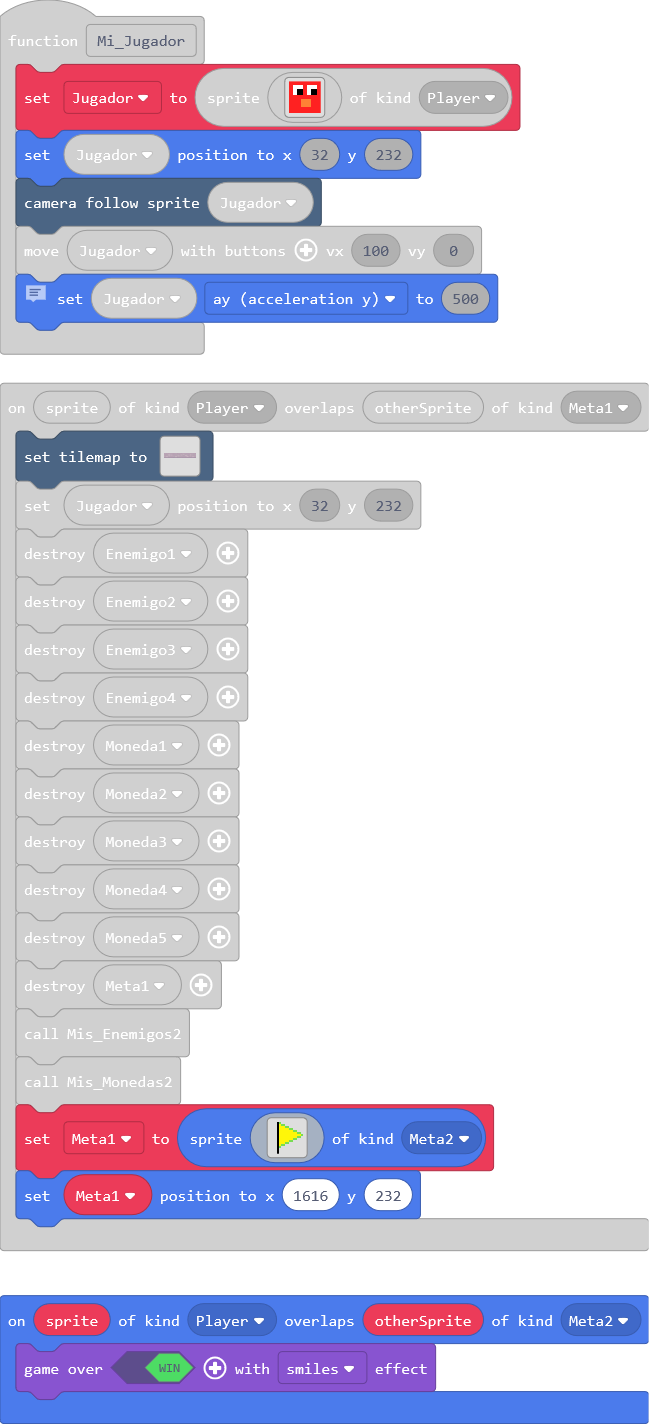
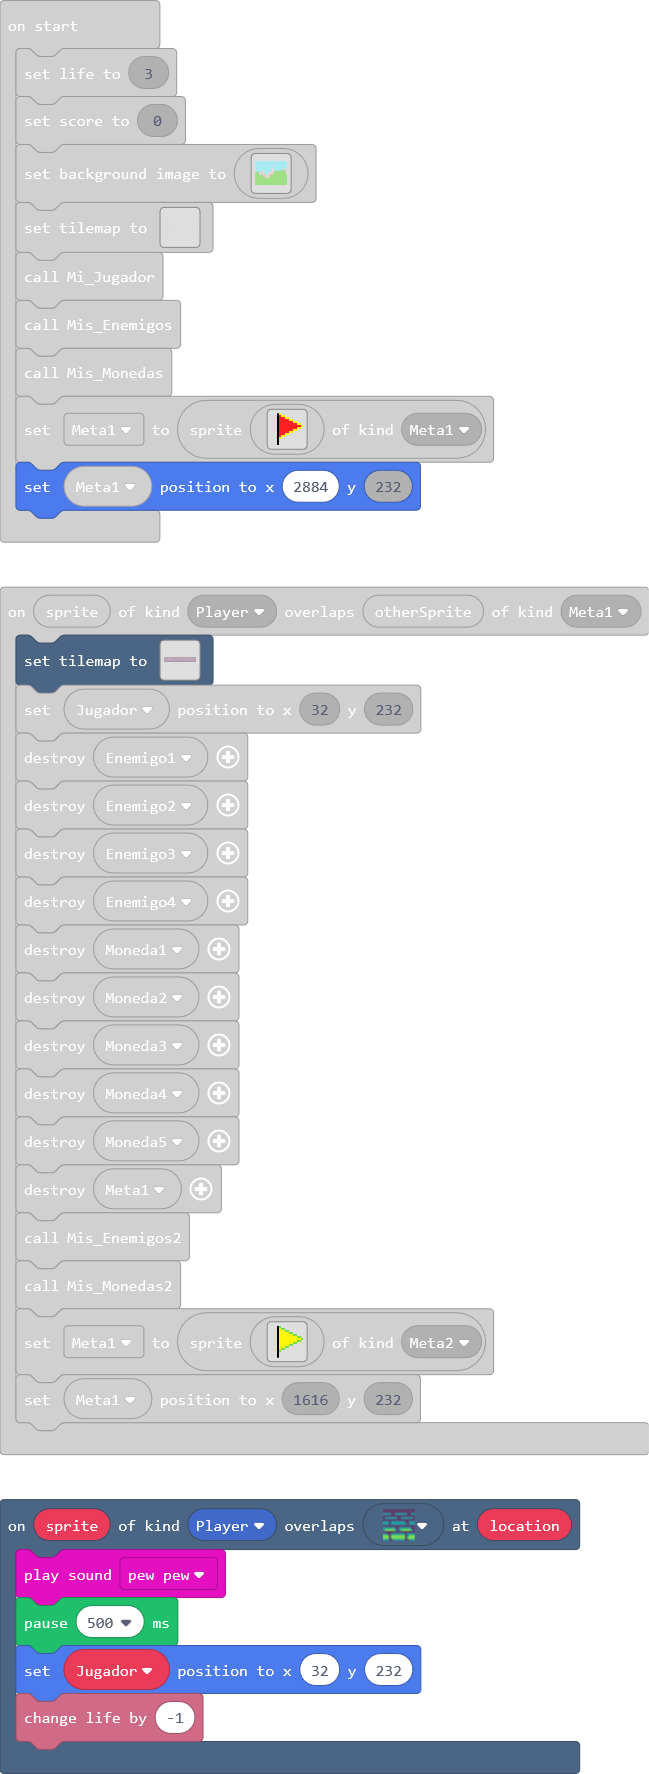
Update main.blocks, main.ts

diff --git a/main.ts b/main.ts
@@ -339,7 +339,7 @@ function Mi_Jugador () {
 }
 sprites.onOverlap(SpriteKind.Player, SpriteKind.Meta1, function (sprite, otherSprite) {
     tiles.setTilemap(tiles.createTilemap(
-            hex`6700100001010101010103010101010101010101010101010101010101010101010101010101010101010101010101010101010101010101010101010101010101010101010101010101010101010101010101010101010101010101030301010101010101010101010101010301010101010101010101010101010101010401010102020101010101010202020201010101010101010101010101010101010202020202020201010101010104040404040401010101010101010101010101010103030101010101010101010104010101030101010102010101010101010101010101010104040101010101010301010101010103010101010201010101030303010101020201010101030101020201010101010101010104010102010101030103010101010303010102010104010102020104040101030101010101010101010102010301010606060606060101010101010103010201010101010103010103010101010101010101020101010101030301010101060606060601010101010401010103030101010303030101010101010202010401010101040101010101010104040404010101010301010101010101010101010101010101030101010102010101010101010101030101010101010201010101030401010101010201010101010101010101040101010101010101010301010301010101010101010101010103030101010101010101010301010101010101010102010201010101010201010101010404010301010102020302020101010301010201010103030101040401010201020101010301010101010104010101010101010101010306060603010101010103030303030103030101010101010101030101010101010202010102010106060606060601040401010101010101010101010101010101010102010101010606060606060101020201010101010101010101010101010301010101010103010101010301010101030101010101010303010103010201010301010101020201010101010101010101010101010101010102010103010103010101010101010101020303010104040404010104010102010101010106060606060601010101030303010101010101010101010101030102020101010202010101030101010101010102020101010101010101010101010104010101010101010101010303010201010301010103030301010101010104040101040101020103010201030101020101010101010101010101010202020101010102010301020101010101010101010301010101010202010101010606060606060101010101040101010202010101010101010102010101010606060606060101010101040101010401010203010101010101010303010101010103030301010201060606010101020101010101010202010301010103010101020201010101010201010101010101010202010104010101010101010101010102010101010101030101020101030101010101040101040103010101010103010103010101030101010101020201010101010101010201010101010101010202010101030101020101010101010101010101010101040101020101010101010101010202020201010101010101010101010201010303010104040101010101020101010301010101030106060606060601020101010101010301010102010103020101010101010301010101010101060606060606010103030303010404010101010102020101010101010106060606060601010301010101020101010304010101010101020101010101010202020404010301010101010101010301010301010101060606060606060202010101010101010404010101010101010101010101010101040101010102040401010103010404010101010101030103030101010201010101010101010101030201010101010101010401010301010103030101010301010103010101010201010201010201010102020101010101010101010101010102020101010101010101010101010101040401010301010101010101010101010303010101020201010101010101020203010101010103030301010103010101010101030303010103010101010101010102010202010101010105050505050505050505050505050505050505050505050505050505050505050505050505050505050505050505050505050505050505050505050505050505050505050505050505050505050505050505050505050505050505050505050505050505050505`,
[1 lines of base64/hex data omitted]
             img`
 . . . . . . . . . . . . . . . . . . . . . . . . . . . . . . . . . . . . . . . . . . . . . . . . . . . . . . . . . . . . . . . . . . . . . . . . . . . . . . . . . . . . . . . . . . . . . . . . . . . . . . . 
 . . . . . . . . . . . . . . . . . . . . . . . . . . . . . . . . . . . . . . . . . . . . . . . . . . . . . . . . . . . . . . . . . . . . . . . . . . . . . . . . . . . . . . . . . . . . . . . . . . . . . . . 
@@ -356,9 +356,9 @@ sprites.onOverlap(SpriteKind.Player, SpriteKind.Meta1, function (sprite, otherSp
 . . . . . . . 2 2 2 2 2 2 . . . . . . . . . . . . . . . . . . . . . . . 2 2 2 2 2 2 . . . . . . . . . . . . . . . . . . . . . . . . . . . . . . . . . . . . . . . . . . . . . . . . . 2 2 2 2 2 2 2 . . . . . 
 . . . . . . . . . . . . . . . . . . . . . . . . . . . . . . . . . . . . . . . . . . . . . . . . . . . . . . . . . . . . . . . . . . . . . . . . . . . . . . . . . . . . . . . . . . . . . . . . . . . . . . . 
 . . . . . . . . . . . . . . . . . . . . . . . . . . . . . . . . . . . . . . . . . . . . . . . . . . . . . . . . . . . . . . . . . . . . . . . . . . . . . . . . . . . . . . . . . . . . . . . . . . . . . . . 
-2 2 2 2 2 2 2 2 2 2 2 2 2 2 2 2 2 2 2 2 2 2 2 2 2 2 2 2 2 2 2 2 2 2 2 2 2 2 2 2 2 2 2 2 2 2 2 2 2 2 2 2 2 2 2 2 2 2 2 2 2 2 2 2 2 2 2 2 2 2 2 2 2 2 2 2 2 2 2 2 2 2 2 2 2 2 2 2 2 2 2 2 2 2 2 2 2 2 2 2 2 2 2 
+2 2 2 2 2 2 2 2 2 2 2 2 2 2 2 2 2 . . . 2 2 2 2 2 2 2 2 2 2 . . . 2 2 2 2 2 2 2 2 2 2 2 2 2 2 2 2 2 2 . . . 2 2 2 2 2 2 2 2 2 2 2 2 2 2 2 2 2 2 2 2 2 2 2 2 2 2 2 2 2 . . . 2 2 2 2 2 2 2 2 2 2 2 2 2 2 2 2 2 
 `,
-            [myTiles.tile0,sprites.dungeon.floorDark0,sprites.dungeon.floorDark5,sprites.dungeon.floorDarkDiamond,sprites.dungeon.floorDark4,sprites.dungeon.darkGroundNorth,sprites.dungeon.floorLight0,sprites.dungeon.floorDark2],
+            [myTiles.tile0,sprites.dungeon.floorDark0,sprites.dungeon.floorDark5,sprites.dungeon.floorDarkDiamond,sprites.dungeon.floorDark4,sprites.dungeon.darkGroundNorth,sprites.dungeon.floorLight0,sprites.dungeon.floorDark2,sprites.dungeon.collectibleInsignia,sprites.dungeon.chestOpen,sprites.dungeon.chestClosed,sprites.dungeon.doorLockedWest,sprites.dungeon.doorLockedEast,sprites.dungeon.greenOuterSouth2,sprites.dungeon.greenSwitchUp,sprites.dungeon.greenOuterSouth1],
             TileScale.Sixteen
         ))
     Jugador.setPosition(32, 232)
@@ -472,6 +472,12 @@ f 9 1 1 1 1 1 9 9 9 9 9 9 c . .
 `, SpriteKind.Enemy)
     Enemigo4.setPosition(1376, 232)
 }
+scene.onOverlapTile(SpriteKind.Player, sprites.dungeon.greenOuterSouth1, function (sprite, location) {
+    music.pewPew.play()
+    pause(500)
+    Jugador.setPosition(32, 232)
+    info.changeLifeBy(-1)
+})
 controller.up.onEvent(ControllerButtonEvent.Pressed, function () {
     // velocidad negativa para que se mueva hacia arriba
     Jugador.vy = -230
@@ -656,4 +662,4 @@ Meta1 = sprites.create(img`
 . . . f . . . . . . . . . . . . 
 . . . f . . . . . . . . . . . . 
 `, SpriteKind.Meta1)
-Meta1.setPosition(2872, 232)
+Meta1.setPosition(2884, 232)
